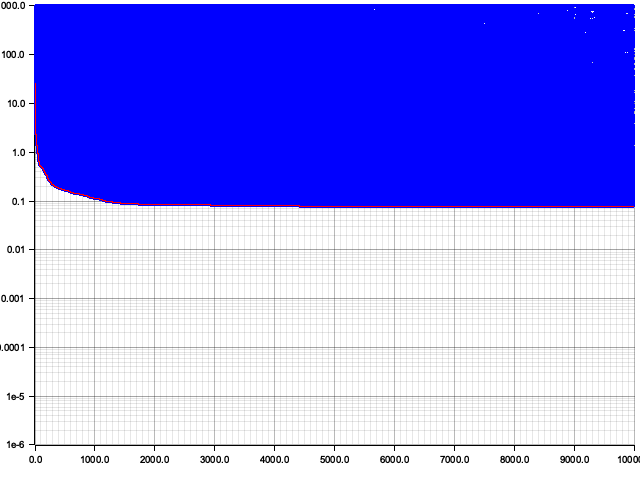
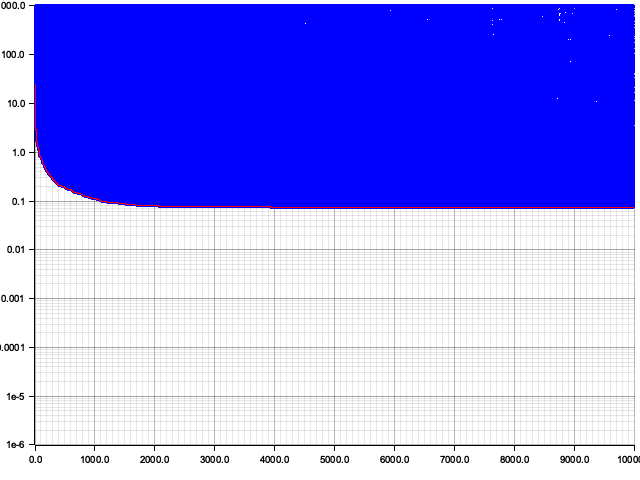
refactor

Changed region(s): [[0.125, 0.4062, 1.0, 0.4375], [0.0625, 0.3438, 0.125, 0.4062], [0.0312, 0.3125, 0.0625, 0.3438]]

diff --git a/src/particle.rs b/src/particle.rs
@@ -7,29 +7,25 @@ use crate::rand::Rng;
 use crate::utils;
 
 pub trait ParticleTrait {
-  fn new(dimensions: usize) -> Self
+  fn new(f: &fn(&DVector<f64>) -> f64, dimensions: usize) -> Self
   where
     Self: Sized;
   fn pos(&self) -> &DVector<f64>;
-  fn pos_eval(&self) -> &f64;
   fn vel(&self) -> &DVector<f64>;
   fn best_pos(&self) -> &DVector<f64>;
-  fn best_pos_eval(&self) -> &f64;
   fn update_vel(&mut self, global_best_pos: &DVector<f64>);
-  fn update_pos(&mut self) -> bool;
-  fn eval(&mut self) -> bool;
+  fn update_pos(&mut self, f: &fn(&DVector<f64>) -> f64) -> bool;
+  fn eval(&mut self, f: &fn(&DVector<f64>) -> f64) -> bool;
 }
 
 pub struct Particle {
   pos: DVector<f64>,
-  pos_eval: f64,
   vel: DVector<f64>,
   best_pos: DVector<f64>,
-  best_pos_eval: f64,
 }
 
 impl ParticleTrait for Particle {
-  fn new(dimensions: usize) -> Particle {
+  fn new(f: &fn(&DVector<f64>) -> f64, dimensions: usize) -> Particle {
     let b_lo: DVector<f64> = DVector::from_element(dimensions, -1.0);
     let b_up: DVector<f64> = DVector::from_element(dimensions, 1.0);
 
@@ -39,21 +35,18 @@ impl ParticleTrait for Particle {
       &DVector::from_iterator(dimensions, (&b_up - &b_lo).iter().map(|b| b.abs())),
     );
 
-    Particle {
+    let mut particle = Particle {
       pos: pos.clone(),
-      pos_eval: 0.,
-      vel: vel,
+      vel: vel.clone(),
       best_pos: pos,
-      best_pos_eval: f64::MAX,
-    }
+    };
+
+    particle.eval(f);
+    particle
   }
 
   fn pos(&self) -> &DVector<f64> {
     &self.pos
-  }
-
-  fn pos_eval(&self) -> &f64 {
-    &self.pos_eval
   }
 
   fn vel(&self) -> &DVector<f64> {
@@ -62,10 +55,6 @@ impl ParticleTrait for Particle {
 
   fn best_pos(&self) -> &DVector<f64> {
     &self.best_pos
-  }
-
-  fn best_pos_eval(&self) -> &f64 {
-    &self.best_pos_eval
   }
 
   fn update_vel(&mut self, global_best_pos: &DVector<f64>) {
@@ -78,18 +67,16 @@ impl ParticleTrait for Particle {
     self.vel = w * &self.vel + phi_p * r_p * (&self.best_pos - &self.pos) + phi_g * r_g * (global_best_pos - &self.pos);
   }
 
-  fn update_pos(&mut self) -> bool {
+  fn update_pos(&mut self, f: &fn(&DVector<f64>) -> f64) -> bool {
     // This function returns whether the personal best was updated.
     self.pos = &self.pos + &self.vel;
-    self.eval()
+    self.eval(f)
   }
 
-  fn eval(&mut self) -> bool {
+  fn eval(&mut self, f: &fn(&DVector<f64>) -> f64) -> bool {
     // This function returns whether the personal best was updated.
-    self.pos_eval = self.pos.iter().map(|x| x.powi(2)).sum();
-    if self.pos_eval < self.best_pos_eval {
+    if f(&self.pos()) < f(&self.best_pos()) {
       self.best_pos = self.pos.clone();
-      self.best_pos_eval = self.pos_eval.clone();
       return true;
     }
     false
@@ -100,17 +87,15 @@ impl ParticleTrait for Particle {
 // contain all the information about a particle including its
 // `pos`, `pos_eval`, `vel`, `best_pos`, and `best_eval`.
 impl fmt::Display for dyn ParticleTrait {
-  fn fmt(&self, f: &mut fmt::Formatter<'_>) -> fmt::Result {
+  fn fmt(&self, fmt: &mut fmt::Formatter<'_>) -> fmt::Result {
     write!(
-      f,
+      fmt,
       "{}",
       &format!(
-        " pos:  [{}] ({:.3})\n vel:  [{}]\n best: [{}] ({:.3})\n",
+        " pos:  [{}] \n vel:  [{}]\n best: [{}] \n",
         utils::format_dvector(self.pos()),
-        self.pos_eval(),
         utils::format_dvector(&self.vel()),
         utils::format_dvector(&self.best_pos()),
-        self.best_pos_eval(),
       )
     )
   }

diff --git a/src/pso.rs b/src/pso.rs
@@ -8,48 +8,32 @@ use particle::ParticleTrait;
 use std::fmt;
 
 pub struct PSO<T: ParticleTrait> {
+  f: fn(&DVector<f64>) -> f64,
   particles: Vec<T>,
   global_best_pos: DVector<f64>,
-  global_best_pos_eval: f64,
 }
 
 impl<T: ParticleTrait> PSO<T> {
-  pub fn new(dimensions: usize, number_of_particles: usize) -> PSO<T> {
-    // When calling `new`, make sure to call `init()` right after to
-    // properly initialize all of the variables.
-    // TODO: Fix this.
-    let mut particles = Vec::new();
+  pub fn new(f: fn(&DVector<f64>) -> f64, dimensions: usize, number_of_particles: usize) -> PSO<T> {
+    let mut particles: Vec<T> = Vec::new();
 
     // Create and save particle of type T.
     for _ in 0..number_of_particles {
-      let mut particle: T = ParticleTrait::new(dimensions);
+      particles.push(ParticleTrait::new(&f, dimensions));
+    }
 
-      // `new` does not automatically call `eval()`,
-      // so we have to make sure to call it here.
-      // TODO: Fix this.
-      particle.eval();
-
-      particles.push(particle);
+    let mut global_best_pos = DVector::from_element(dimensions, -1.);
+    for particle in &mut particles {
+      // if particle.pos_eval() < &global_best_pos_eval {
+      if f(&particle.pos()) < f(&global_best_pos) {
+        global_best_pos = particle.pos().clone();
+      }
     }
 
     PSO {
+      f,
       particles,
-      // This is initialized with `-1`, which is why the `init` has to be
-      // called after `new`.
-      // TODO: Fix this.
-      global_best_pos: DVector::from_element(dimensions, -1.),
-      global_best_pos_eval: f64::MAX,
-    }
-  }
-
-  pub fn init(&mut self) {
-    for particle in &mut self.particles {
-      if particle.pos_eval() < &self.global_best_pos_eval {
-        // `pos_eval()` returns `true` if its personal best was updated,
-        // in which case the global best should be examined as well.
-        self.global_best_pos = particle.pos().clone();
-        self.global_best_pos_eval = particle.pos_eval().clone();
-      }
+      global_best_pos,
     }
   }
 
@@ -71,19 +55,18 @@ impl<T: ParticleTrait> PSO<T> {
 
       for particle in self.particles.iter_mut() {
         particle.update_vel(&self.global_best_pos);
-        if particle.update_pos() {
+        if particle.update_pos(&self.f) {
           // `update_pos()` returns `true` if its personal best was updated,
           // in which case the global best should be examined as well.
-          if particle.best_pos_eval() < &self.global_best_pos_eval {
+          if (self.f)(&particle.best_pos()) < (self.f)(&self.global_best_pos) {
             self.global_best_pos = particle.best_pos().clone();
-            self.global_best_pos_eval = particle.best_pos_eval().clone();
           }
         }
-        iteration_data.push(particle.pos_eval().clone());
+        iteration_data.push((self.f)(&particle.pos()).clone());
       }
 
       // Save the data for current iteration.
-      data.push((self.global_best_pos_eval, iteration_data));
+      data.push(((self.f)(&self.global_best_pos), iteration_data));
 
       // Increment the progress bar.
       progress.inc(1);
@@ -108,7 +91,8 @@ impl<T: ParticleTrait + std::fmt::Display> fmt::Display for PSO<T> {
     result.push_str(&format!(
       "global best pos: [{}] ({:.3})",
       utils::format_dvector(&self.global_best_pos),
-      self.global_best_pos_eval,
+      (self.f)(&self.global_best_pos),
+      // self.global_best_pos_eval,
     ));
     write!(f, "{}", result)
   }

diff --git a/src/main.rs b/src/main.rs
@@ -1,6 +1,7 @@
 extern crate nalgebra as na;
 extern crate rand;
 
+use nalgebra::DVector;
 mod grapher;
 mod particle;
 mod pso;
@@ -10,10 +11,11 @@ use particle::Particle;
 use pso::PSO;
 
 fn main() {
-  let mut pso: PSO<Particle> = pso::PSO::new(100, 300);
-  // `PSO` has to be initialized after being created.
-  // TODO: Fix this.
-  pso.init();
+  fn f(x: &DVector<f64>) -> f64 {
+    x.iter().map(|&x| x * x).sum()
+  }
+
+  let mut pso: PSO<Particle> = pso::PSO::new(f, 100, 300);
 
   pso.run(10000);
 }
